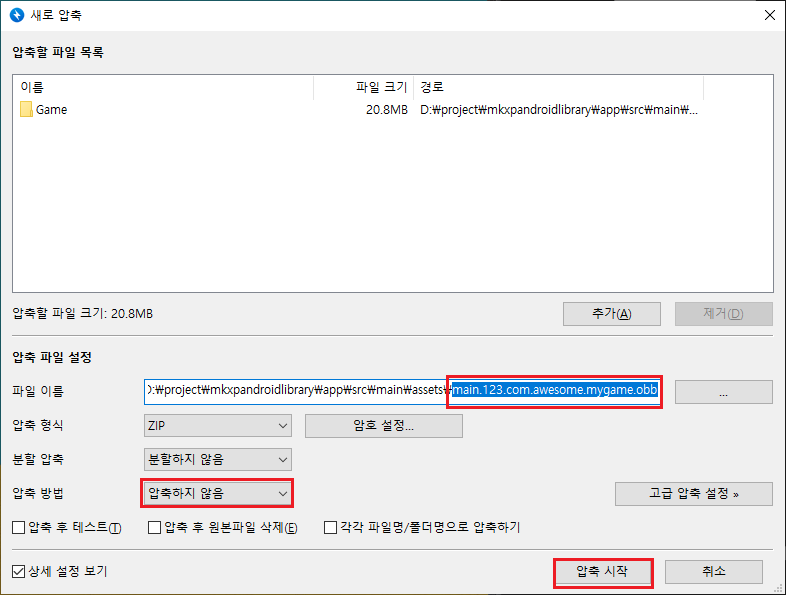
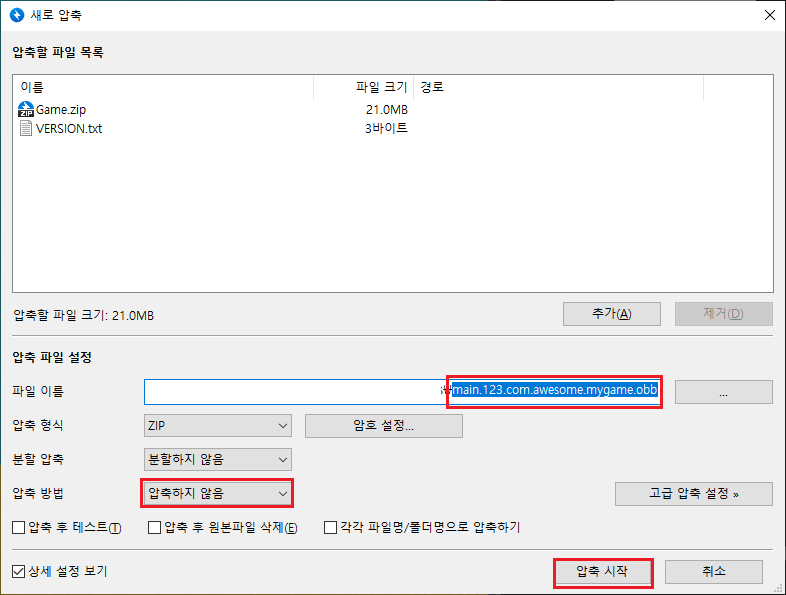
Update: copying *.obb once when apk update

diff --git a/MainActivity.java b/MainActivity.java
@@ -2,6 +2,7 @@ package cyou.joiplay.rpgm;
 
 import android.content.pm.PackageInfo;
 import android.content.pm.PackageManager;
+import android.content.res.AssetManager;
 import android.graphics.PixelFormat;
 import android.os.Build;
 import android.os.Bundle;
@@ -23,6 +24,7 @@ public class MainActivity extends SDLActivity {
     private static final String GAME_FILE_NAME = "Game.zip";
     private static final String INI_FILE_NAME = "Game.ini";
     private static final String CONF_FILE_NAME = "mkxp.conf";
+    private static final String VERSION_FILE_NAME = "VERSION.txt";
     private static String GAME_FOLDER;
     private static String OBB_FOLDER;
     private static String CONF_FILE_PATH;
@@ -61,9 +63,22 @@ public class MainActivity extends SDLActivity {
             try {
                 //ZipResourceFile zipFile = APKExpansionSupport.getAPKExpansionZipFile(getContext(), info.versionCode, 0);
                 ZipResourceFile zipFile = new ZipResourceFile(obbFile.getAbsolutePath());
-                // BUG: Why src is fixed?
-                final String src = "main.1.cyou.joiplay.mkxp.obb/Game.zip"; // String.format("%s%s%s", getMainObbFileName(info.versionCode), File.separator, GAME_FILE_NAME);
-                createZipFile(zipFile.getInputStream(src));
+
+                File versionFile = new File(GAME_FOLDER, VERSION_FILE_NAME);
+                if (!versionFile.exists()) {
+                    unzipFile(zipFile.getInputStream(GAME_FILE_NAME), GAME_FILE_NAME);
+                } else {
+                    BufferedReader br = new BufferedReader(new FileReader(GAME_FOLDER + File.separator + VERSION_FILE_NAME));
+                    String line = br.readLine();
+                    if (line == null || !line.trim().equals(String.valueOf(info.versionCode))) {
+                        unzipFile(zipFile.getInputStream(GAME_FILE_NAME), GAME_FILE_NAME);
+                    }
+                    br.close();
+                }
+                unzipFile(zipFile.getInputStream(VERSION_FILE_NAME), VERSION_FILE_NAME);
+
+            } catch (FileNotFoundException ex) {
+                ex.printStackTrace();
             } catch (IOException e) {
                 e.printStackTrace();
             }
@@ -166,8 +181,8 @@ public class MainActivity extends SDLActivity {
         return super.dispatchKeyEvent(event);
     }
 
-    private void createZipFile(InputStream inputStream) {
-        File file = new File(GAME_FOLDER, GAME_FILE_NAME);
+    private void unzipFile(InputStream inputStream, String dest) {
+        File file = new File(GAME_FOLDER, dest);
         try {
             OutputStream outputStream = new FileOutputStream(file);
             int len = 0;
@@ -176,7 +191,7 @@ public class MainActivity extends SDLActivity {
             while ((len = inputStream.read(buf)) > 0) {
                 outputStream.write(buf, 0, len);
             }
-
+            
             outputStream.close();
             inputStream.close();
         } catch (FileNotFoundException e) {

diff --git a/README.md b/README.md
@@ -271,12 +271,16 @@ Affected Modules: downloader_library, library, zip_file
 ## obb 파일 만들기
 
 1. `./app/src/main/assets` 폴더로 이동합니다.
-2. `Game.zip` 파일을 **지웁니다**.
-3. 이 폴더에는 `Game.ini` 파일만 남아있으면 됩니다.
+2. `Game.zip` 파일을 다른 곳으로 이동시키거나 지웁니다.
+   * 이 폴더에는 `Game.ini` 파일만 남아있으면 됩니다.
 
+3. `VERSION.txt` 파일을 새로 만들어서 그 안에 버전 번호를 적고 저장합니다. 버전 번호가 123 이라면 그대로 적습니다.
+```
+123
+```
 ![obb-1](./img/obb-1.png)
 
-4. 게임 프로젝트 폴더에 반디집 기준 `반디집으로 압축하기` 를 누릅니다.
+4. `Game.zip` 과 `VERSION.txt` 을 반디집 기준 `반디집으로 압축하기` 를 누릅니다.
 
 ![obb-2](./img/obb-2.png)
 
@@ -310,14 +314,15 @@ Affected Modules: downloader_library, library, zip_file
 
 12. `내부 폴더` > `Android` > `obb` > `패키지 아이디` 폴더로 이동해서 `MOVE` 를 누릅니다.
 
-13. 게임을 실행합니다.
+13. 게임이 잘 실행되는지 확인합니다.
 
 ## 업로드 및 출시하기
-구글 플레이 스토어에서 `app-release.apk` 파일과 obb 파일을 업로드 합니다. 여기서는 자세히 다루지 않겠습니다.
+구글 플레이 스토어에서 `app-release.apk` 파일과 obb 파일을 업로드 합니다. 여기서는 자세히 다루지 않습니다. [여기](https://developer.android.com/google/play/expansion-files)를 눌러 참고하세요.
 
 # 버그 및 이슈
 * obb 파일 사용 시, 게임을 실행할 때마다 obb 파일을 internal storage에 복사하므로 용량이 클 수록 오버헤드가 심각해짐
-  * 업데이트 때마다 최초 한 번만 복사하는 아이디어 필요
+  - [x] 업데이트 때마다 최초 한 번만 복사하는 아이디어 필요
+    - [x] `VERSION.txt` 로 버전 확인하는 방법으로 해결
 
 # 감사의 말
 템플릿 파일을 제공해주신 joiPlay 개발자님과 파일을 전달해주신 눈물향수님께 감사의 인사를 드립니다.
